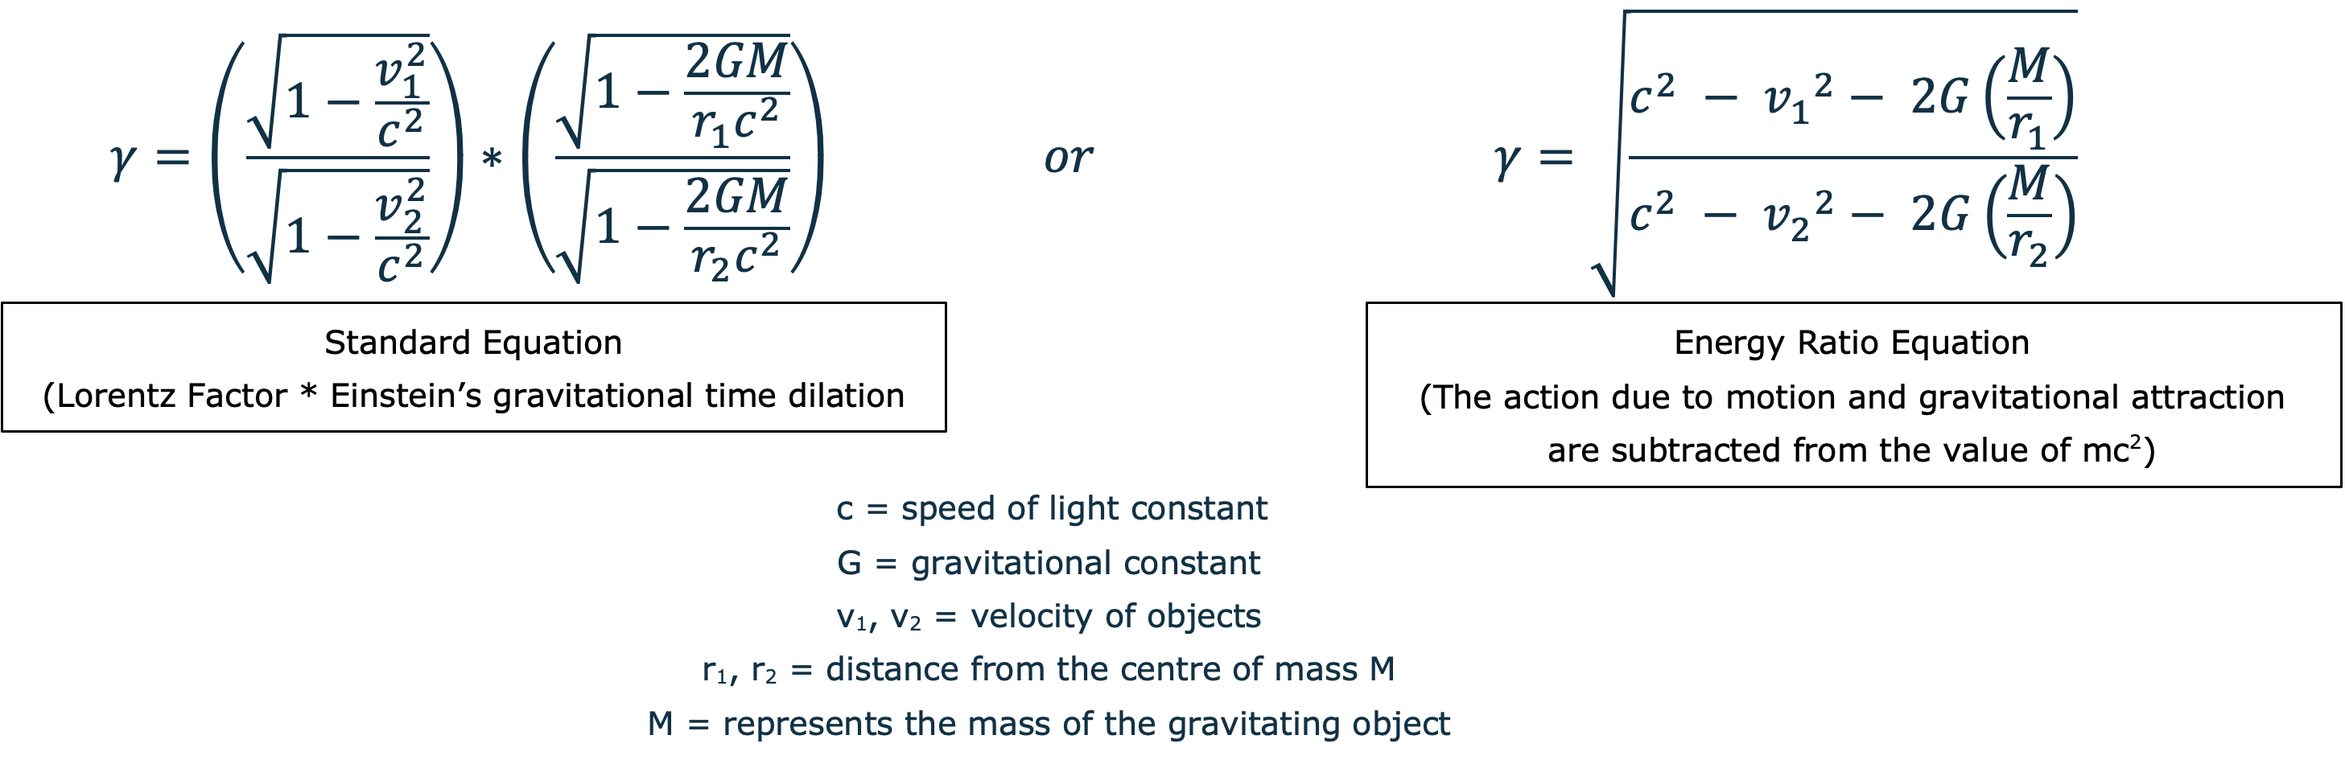
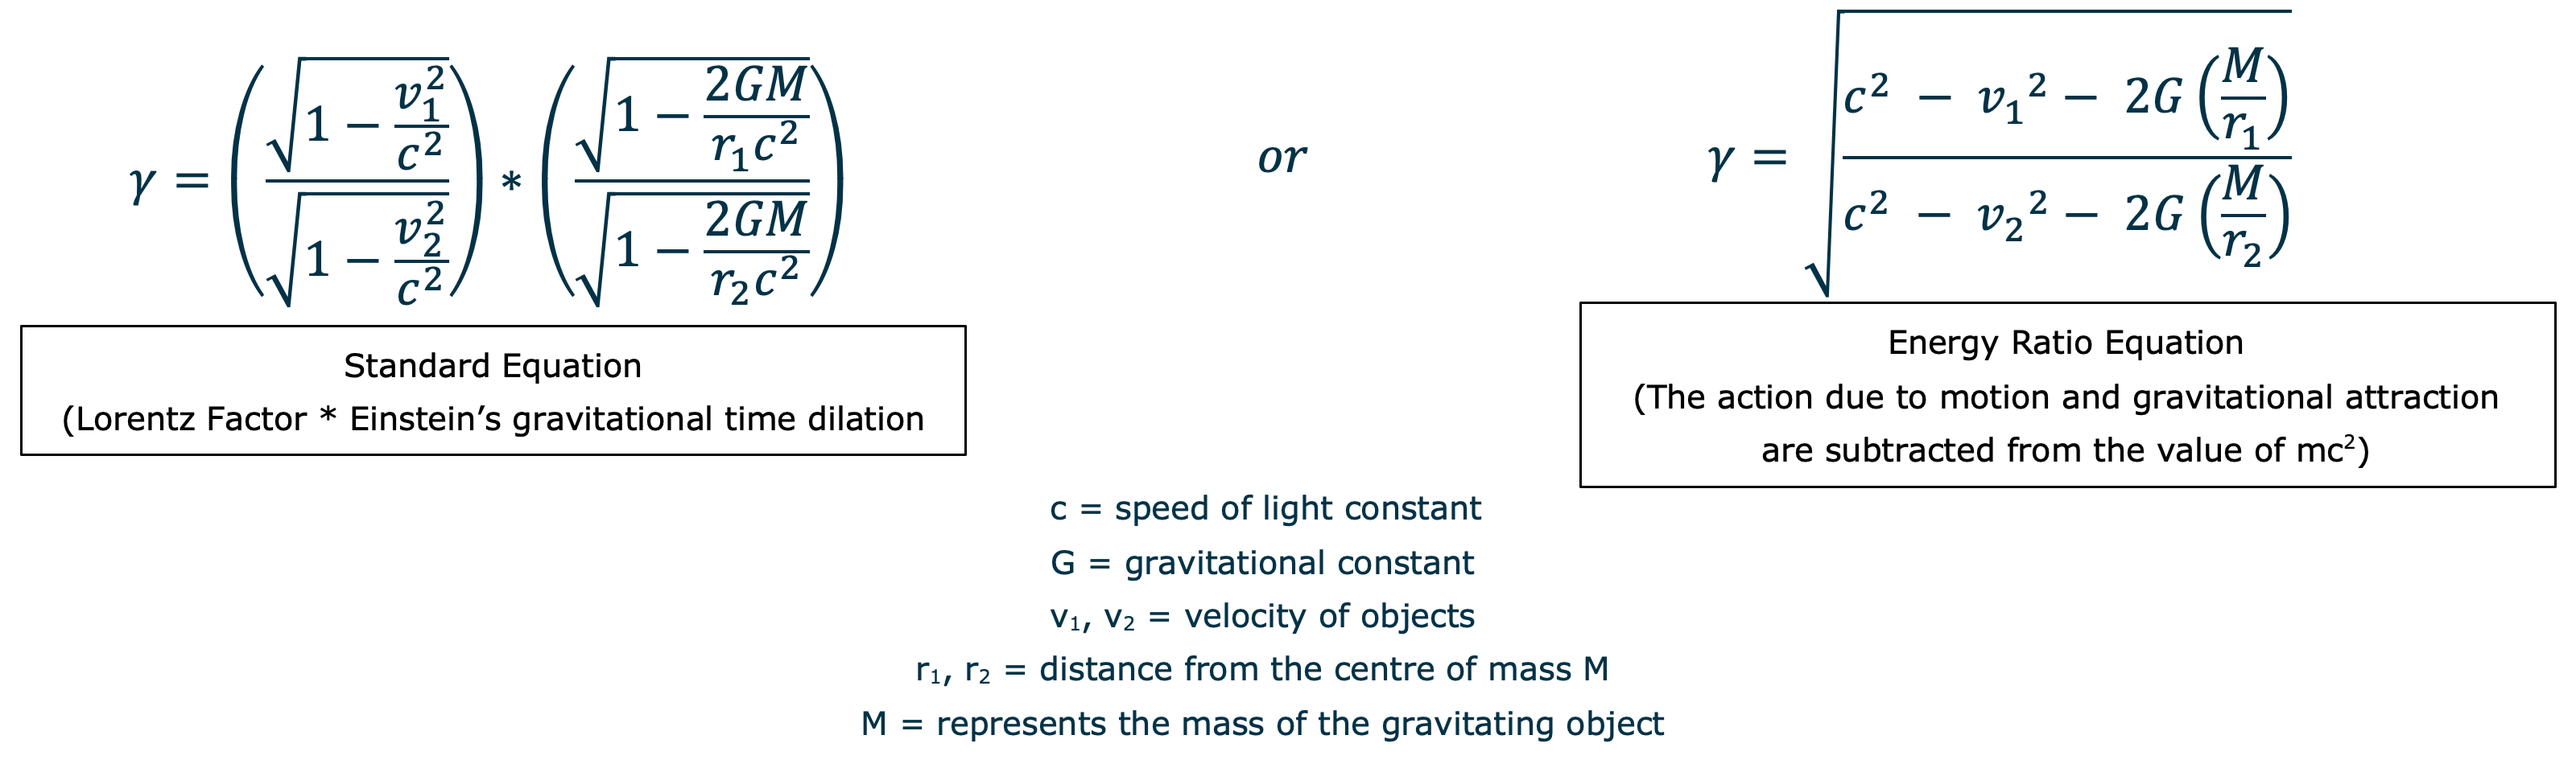
update index | update experiment

diff --git a/src/pages/index.jsx b/src/pages/index.jsx
@@ -2,7 +2,8 @@ import React from 'react'
 import Image from 'next/image'
 import heroBanner from 'public/hero_banner.jpg'
 import wave from 'src/images/photos/wave.jpeg'
-import iss from 'src/images/photos/iss.jpg'
+import iss from '/src/images/photos/iss.jpg'
+import spaceBanner from '/src/images/photos/spaceBannerTransformed.jpeg'
 
 export default function Index() {
     return (
@@ -11,21 +12,40 @@ export default function Index() {
                 <p className="text-5xl font-semibold tracking-wider py-56 lg:px-48 leading-10 lg:text-center text-slate-300 md:px-21 md:text-center ">Los Pollos El En Espacio</p>
                 <div className="absolute w-10 bottom-4 left-1/2">
                     <svg className="scale-100 animate-pulse w-6 h-6"xmlns="http://www.w3.org/2000/svg" fill="none" viewBox="0 0 24 24" strokeWidth="1.5" stroke="white">
-                        <path stroke-linecap="round" stroke-linejoin="round" d="M19.5 8.25l-7.5 7.5-7.5-7.5" />
+                        <path strokeLinecap="round" strokeLinejoin="round" d="M19.5 8.25l-7.5 7.5-7.5-7.5" />
                     </svg>
                 </div>
                 {/* <Image src={img} placeholder='blur' alt='hero_banner' width='3840' height='2160'/> */}
                 {/* <Image priority src={arrow} className="bg-red"/> */}
             </div>
             <div style={{width:"10wh"}} className="bg-neutral-50">
-                <p className="text-4xl pt-44 font-medium  px-48 leading-10 text-center text-slate-500 ">Does Time Dilation Affect the ISS and if so How?</p>
+                <p className="text-4xl pt-44 font-medium px-48 leading-10 text-center text-slate-500 ">Does Time Dilation Affect the ISS and if so How?</p>
                 <p className="text-3xl pt-20 pb-56  px-48 leading-10 text-center text-slate-500">Embark on a journey with us, as we venture into the captivating domain of physics to unravel the intriguing effects of Time Dilation aboard the International Space Station (ISS).</p>
             </div>
-            <div style={{backgroundImage:`url(${iss.src})`,backgroundSize:"cover", backgroundPosition:"center",backgroundRepeat:"no-repeat", height:"100vh",width:"100wh",backgroundColor:"rgb(10,10,10)"}} className="relative">
-
+            <div style={{backgroundImage:`url(${iss.src})`}} className="h-screen w-screen bg-no-repeat bg-center bg-cover content-center relative">
+                <div className='relative text-center py-96 -left-32'>
+                    <a href="/experiment" className=" text-center px-auto absolute snap-center px-20 py-10 font-bold text-white rounded-lg group">
+                        <span className="absolute inset-0 w-full h-full transition duration-300 transform -translate-x-3 -translate-y-3 border-white border-2 ease opacity-80 group-hover:translate-x-0 group-hover:translate-y-0"></span>
+                        <span className="absolute inset-0 w-full h-full transition duration-300 transform translate-x-3 translate-y-3 bg-gray-800 border-white border-2 ease opacity-80 group-hover:translate-x-0 group-hover:translate-y-0 mix-blend-screen"></span>
+                        <span className="relative text-xl text-white" >Experiment</span>
+                    </a>
+                </div>
             </div>
             <div style={{backgroundImage:`url(${wave.src})`,backgroundSize:"contain",backgroundRepeat:"no-repeat", height:"100vh", backgroundPosition:"center"}} className="relative border-solid border-white border-2">
-
+                <div className='relative text-center py-96 -left-28'>
+                    <a href="/#" className=" text-center px-auto absolute snap-center px-20 py-10 font-bold text-white rounded-lg group">
+                        <span className="absolute inset-0 w-full h-full transition duration-300 transform -translate-x-3 -translate-y-3 border-white border-2 ease opacity-80 group-hover:translate-x-0 group-hover:translate-y-0"></span>
+                        <span className="absolute inset-0 w-full h-full transition duration-300 transform translate-x-3 translate-y-3 bg-gray-800 border-white border-2 ease opacity-80 group-hover:translate-x-0 group-hover:translate-y-0 mix-blend-screen"></span>
+                        <span className="relative text-xl text-white" >Results</span>
+                    </a>
+                </div>
+            </div>
+            <div style={{backgroundImage:`url(${spaceBanner.src})`}} className="h-screen w-screen bg-contain bg-center bg-repeat content-center relative">
+                <a href="/our-team" className="py-96 -ml-32 -mt-36 left-1/2 top-1/2 text-center relative inline-flex items-center justify-center px-20 py-6 overflow-hidden font-mono font-medium tracking-tighter text-white bg-gray-800 rounded-lg group">
+                    <span className="absolute w-0 h-0 transition-all duration-500 ease-out bg-white rounded-full group-hover:w-56 group-hover:h-56"></span>
+                    <span className="absolute inset-0 w-full h-full -mt-1 rounded-lg opacity-30"></span>
+                    <span className="relative group-hover:text-black">Meet the Team</span>
+                </a>
             </div>
         </>
     )

diff --git a/src/pages/experiment.jsx b/src/pages/experiment.jsx
@@ -10,6 +10,7 @@ import {
   LinkedInIcon,
   TwitterIcon,
 } from '@/components/SocialIcons'
+
 import blackhole from '@/images/photos/blackhole.jpg'
 import gravityTimeDilation from '@/images/photos/gravityTimedilation.png'
 import velocityTimeDilation from '@/images/gifs/invertedTimeDilation.gif'
@@ -78,7 +79,7 @@ export default function Experiment() {
             <h1 className="text-3xl font-bold tracking-tight text-zinc-800 dark:text-zinc-100 sm:text-5xl">
               Our Experiment
             </h1>
-            <div className="mt-6 space-y-7 text-base text-zinc-600 dark:text-zinc-400">
+            <div className="mt-6 space-y-7 text-base text-zinc-200 text-base">
               <p className="py-16">
               Time dilation, a key concept in Einstein&apos;s theories of relativity, 
               describes how time can appear to &apos;slow down&apos; or &apos;speed up&apos; depending
@@ -128,9 +129,9 @@ export default function Experiment() {
           </div> */}
         </div>
       </Container>
-      <div style={{width:"10wh"}} className="bg-white">
+      <div style={{width:"10wh"}} className="pb-20 bg-white">
                   <p className="text-4xl pt-28 font-medium  px-48 leading-10 text-center text-slate-500 ">How is this relevant to the ISS?</p>
-                  <p className="text-3xl pt-20 pb-32  px-48 leading-10 text-center text-slate-500">
+                  <p className="text-2xl pt-20 pb-32  px-48 leading-10 text-center text-slate-500">
                   In the context of the International Space Station (ISS), both types of time dilation 
                   are relevant. The ISS is moving at high speeds relative to an observer on Earth 
                   (velocity time dilation), and it&apos;s also further from the center of the Earth and 
@@ -138,19 +139,38 @@ export default function Experiment() {
                   </p>
                   <hr class="w-11/12 h-0.5 mx-auto my-4 bg-gray-100 border-0 rounded md:my-10 dark:bg-gray-700"></hr>
                   <p className="text-4xl py-14 font-medium  px-48 leading-10 text-center text-slate-500 ">Application</p>
-                  <p className="text-3xl pb-56  px-48 leading-10 text-center text-slate-500">
+                  <p className="text-2xl pb-16  px-48 leading-10 text-center text-slate-500">
                   To find the total time dilation effect on the ISS, we need to combine both types of
                   time dilation. This is done by adding the individual effects. It&apos;s important to note 
                   that because the effects are very small, they don&apos;t simply add linearly. Instead, we 
                   have to use the principles of Einstein&apos;s relativity to properly combine them, giving 
-                  a more accurate estimation of the overall time dilation experienced aboard the ISS.
+                  a more accurate estimation of the overall time dilation experienced aboard the ISS. The 
+                  equations are as such:
                   </p>
                   <Image
                     src={equations}
+                    unoptimized={true}
                     alt=""
                     sizes="(min-width: 1024px) 32rem, 20rem"
-                    className="aspect-auto  rounded-2xl object-cover bg-white"
+                    className="aspect-auto rounded-2xl object-scale-down h-96 bg-white"
                   />
+                  <p className="text-2xl pt-16 pb-12 font-medium px-48 leading-10 text-center text-slate-500">
+                  To calculate the total time dilation experienced by the ISS, we simply substitute the 
+                  values we've obtained into one of the relevant equations.
+                  </p>
+      </div>
+      <div style={{width:"10wh"}} className="bg-black">
+        <p className="text-4xl mb-14 pt-28 font-medium  px-48 leading-10 text-center text-white ">Finding the Wavelength</p>
+          <p className="text-2xl pb-16  px-48 leading-10 text-center text-slate-100">
+          Once the time dilation effect has been calculated, it can be applied to the wavelength of the 
+          uplink transmission to the ISS. This is done by multiplying the time dilation factor by the 
+          original wavelength. The wavelength of a wave is directly proportional to its period (and inversely 
+          proportional to its frequency), so if time appears to be 'stretched' due to time dilation, so too will 
+          the wavelength. The equation to calculate the wavelength recieved by the ISS is as follows:
+          </p>
+          <p className="text-2xl pb-16  px-48 leading-10 text-center text-slate-100">
+          Time Dilation (γ) x Original Uplink Wavelength (λ) = Wavelength Recieved
+          </p>
       </div>
     </>
   )

diff --git a/src/components/Header.jsx b/src/components/Header.jsx
@@ -124,7 +124,7 @@ function MobileNavigation(props) {
                 <MobileNavItem href="/experiment">Experiment</MobileNavItem>
                 <MobileNavItem href="/results">Results</MobileNavItem>
                 <MobileNavItem href="/our-team">Our Team</MobileNavItem>
-                <MobileNavItem href="/#">Timeline</MobileNavItem>
+                {/* <MobileNavItem href="/#">Timeline</MobileNavItem> */}
               </ul>
             </nav>
           </Popover.Panel>
@@ -160,11 +160,12 @@ function NavItem({ href, children }) {
 function DesktopNavigation(props) {
   return (
     <nav {...props}>
-      <ul style={{minWidth: "370px"}} className="flex rounded-full bg-white/90 px-3 text-sm font-medium text-zinc-800 shadow-lg shadow-zinc-800/5 ring-1 ring-zinc-900/5 backdrop-blur dark:bg-zinc-800/90 dark:text-zinc-200 dark:ring-white/10">
+      <ul style={{minWidth: "290px"}} className="flex rounded-full bg-white/90 px-3 text-sm font-medium text-zinc-800 shadow-lg shadow-zinc-800/5 ring-1 ring-zinc-900/5 backdrop-blur dark:bg-zinc-800/90 dark:text-zinc-200 dark:ring-white/10">
         <NavItem href="/experiment">Experiment</NavItem>
         <NavItem href="/results">Results</NavItem>
         <NavItem href="/our-team">Our Team</NavItem>
-        <NavItem href="/#">Timeline</NavItem>
+        {/* <NavItem href="/#">Timeline</NavItem> */}
+        {/* min width is 370 with our team */}
       </ul>
     </nav>
   )

diff --git a/src/components/TeamCards.jsx b/src/components/TeamCards.jsx
@@ -40,7 +40,7 @@ const people = [{
 },
 {
     name: 'James Fielding',
-    role: 'Planning / Mathematician',
+    role: 'Mathematician',
     imageUrl: james,
     twitterUrl: '#',
     linkedinUrl: '#',
